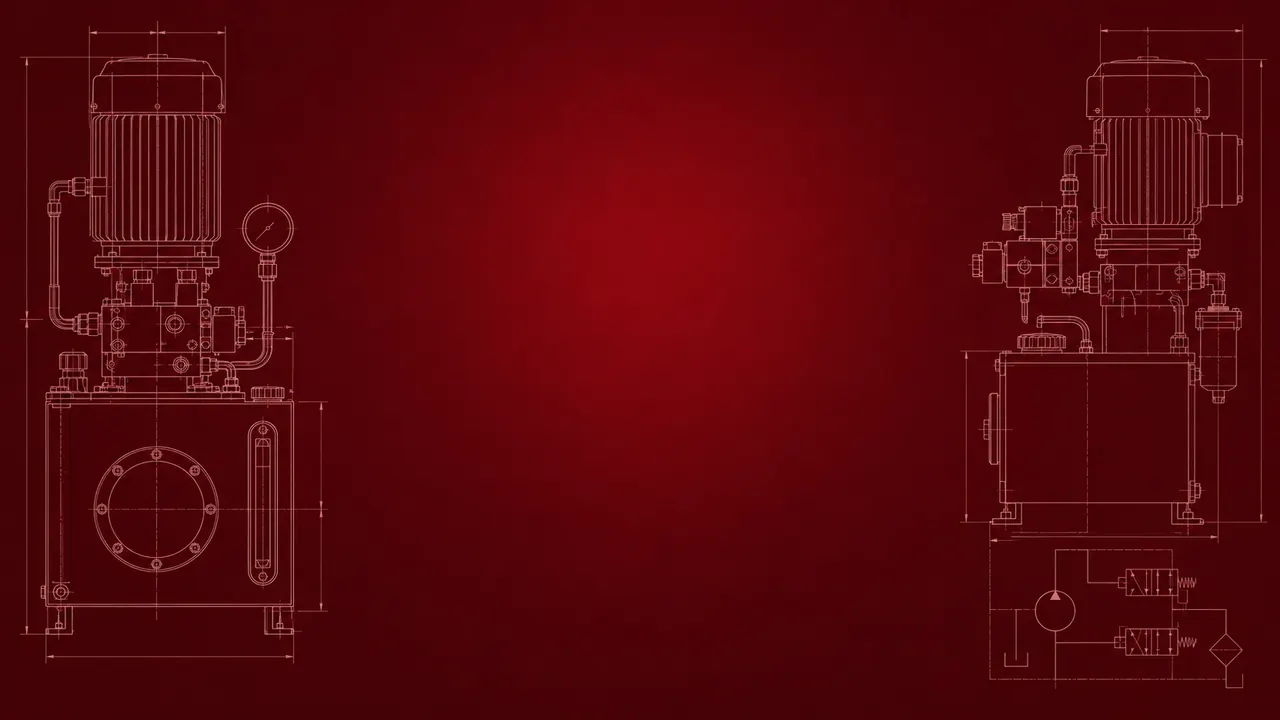
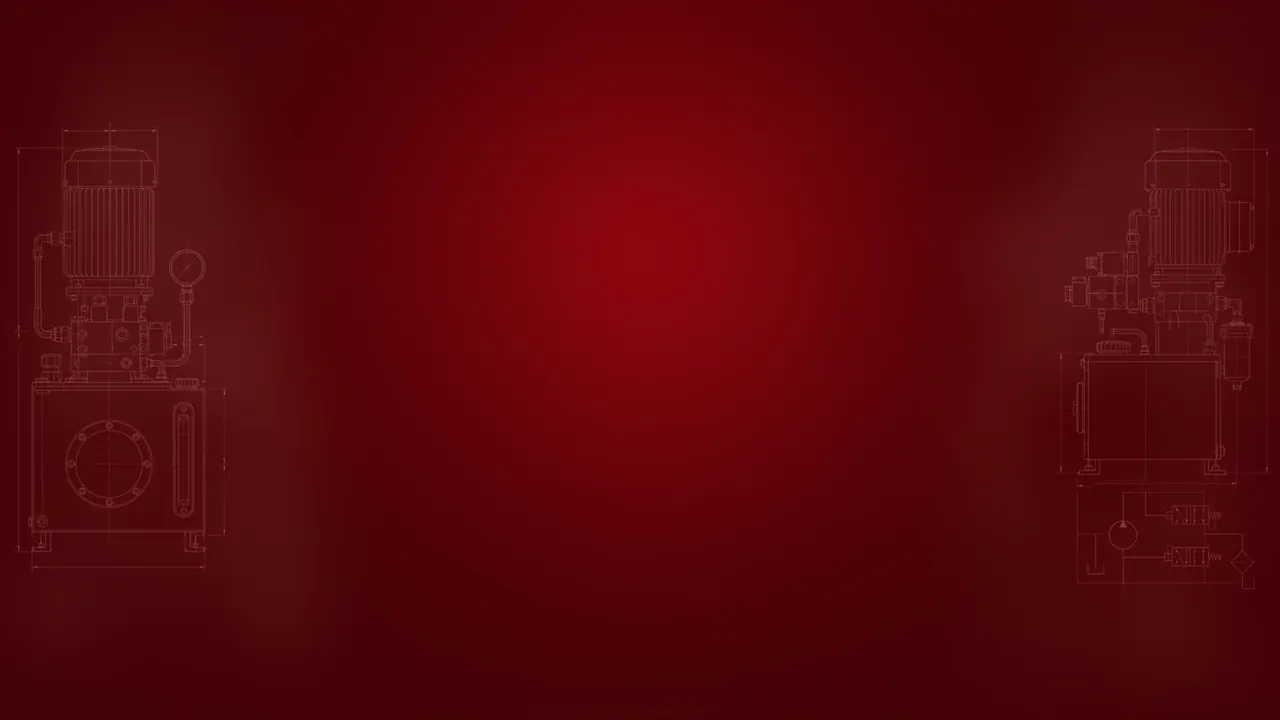
Гидростанции: фон подбора бледнее, чертежи прижаты к краям — не мешают тексту

diff --git a/apps/core/power_units.py b/apps/core/power_units.py
@@ -199,7 +199,8 @@ CONFIG = {
     "time": {"min": 5, "max": 120, "step": 1, "value": 25},  # s
 }
 
-# Behind the calculator: burgundy, power unit drawings at the edges (generated, Codex, 2026).
+# Behind the calculator: burgundy, power unit drawings at the edges (generated, Codex, 2026), faded
+# and shrunk towards the edges so they never sit under the sliders.
 CONFIG_BG = img("backgrounds/chertezh-gidrostancij-bordo", (1672, 941), widths=(768, 1280, 1672))
 # Behind the request form (generated, Codex, 2026).
 LEAD_BG = img("backgrounds/chertezh-gidrostancii-zayavka", (1920, 1080), widths=(768, 1280, 1920))
